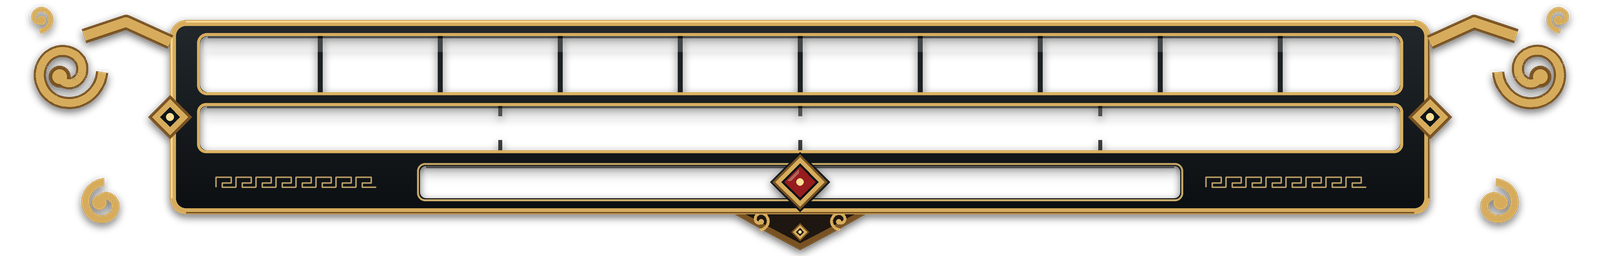
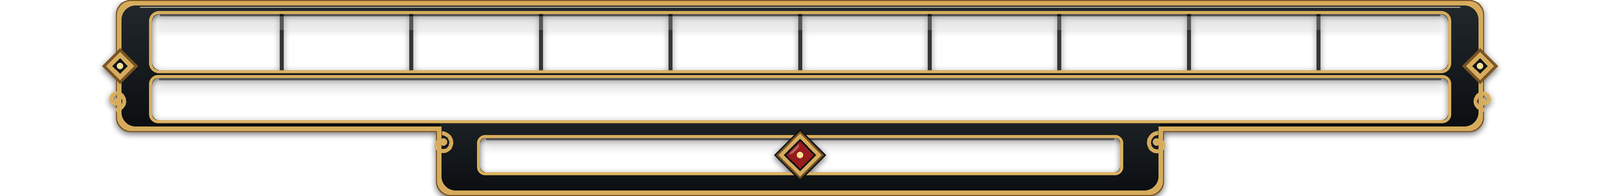
Brighten the vitals fills and fit the stack into less of a phone screen
The user's phone-emulator screenshot showed empty-looking bars and a HUD
taking about half the screen. The fills were authored at size 0 (health,
qi) and a dimmed tan (guard), so the edit view and the first frame showed
dark tracks under "100 / 100"; the guard's idle dim made it a dull strip.
They're now authored full and bright: crimson health, azure qi, a lit
pale-gold guard (GuardBar IDLE_DIM 0.45 -> 0.12).

Size: the emulator reports a mouse, so it gets the PC layout, whose stack
could take 45% of the screen height. On short screens the stack now takes
at most 30% (Layout SMALL_HEIGHT_SHARE). The plate is redrawn as a notched
shape (1600x196, was 1600x256): a full-width body for health and qi, a tab
under the middle for the guard, ornament trimmed to the rim so the bars
keep their thickness. It sits right on the hotbar, and the PC cooldown
chips tuck into the left notch instead of their own row. The seated tiles,
lotus, Force Breakthrough pill and the touch prompt dock moved down with
it. The hotbar is unchanged.

Landscape phone (750x340), plate + crest + hotbar: emulator/PC layout
58% -> 35% of the screen height; touch layout 39% -> 35%.

Untested in play and on a device; previewed in a sandbox's edit view only.

Testbed: re-sync and republish to test the new qi and guard bars

diff --git a/art/ui/draw_vitals.py b/art/ui/draw_vitals.py
@@ -1,44 +1,49 @@
 """Draws the vitals mount (health, qi, guard) and the seated cultivation mount.
 
-vitals_mount.png  1600x256, Stretch at its native 6.25:1 (Hud.Stack.Vitals.Mount).
-                  Three windows the fills show through, top to bottom: health
-                  (thick, ten segments), qi (combat qi, the bright azure bar) and
-                  guard (a shorter posture trough under a lacquer seal in the
-                  middle; the fill drains toward the seal).
-seat_mount.png    1600x256, Stretch at 6.25:1 (Hud.Stack.SeatBars.Mount), shown in
-                  the vitals' place while seated. A realm title band on top, the
-                  cultivation window with a breakthrough lozenge at its right end
-                  and a short overflow chamber past it (cultivation beyond the
-                  breakthrough mark), and the dantian (raw qi) window under it.
-Both are drawn over their fills, so each window is cut clear and glazed.
-The window boxes (VITALS2, SEAT) are what the Studio layout copies, as scale.
-Run: uv run --with pillow --with numpy python art/ui/draw_vitals.py
+Both are one notched plate (1600x196, Stretch at its native 8.16:1): a full-width
+upper body and a narrower tab under its middle, so the PC cooldown chips tuck into
+the left notch instead of taking a row of their own (user, 2026-10-22). Ornament is
+trimmed to a gilt rim, end lozenges and small curls so the bars get the height.
+vitals_mount.png  Hud.Stack.Vitals.Mount: health (thick, ten segments) and combat
+                  qi in the body, the guard trough in the tab under a lacquer seal
+                  (the fill drains toward the seal).
+seat_mount.png    Hud.Stack.SeatBars.Mount, in the vitals' place while seated: a realm
+                  title band, the cultivation window with a breakthrough lozenge and a
+                  short overflow chamber past it, and the dantian (raw qi) in the tab.
+Both are drawn over their fills, so each window is cut clear and glazed. The window
+boxes (VITALS2, SEAT, NOTCH_LEFT) are what the Studio layout copies, as scale.
+Run: uv run --with pillow --with numpy python art/ui/draw_vitals.py [preview]
 """
 import math
 
-from PIL import Image, ImageDraw
+from PIL import Image, ImageDraw, ImageFilter
 
 from draw_ui import (
     GOLD, GOLD_HI, GOLD_LO, INK, SS, canvas, finish, gradient_rect, bevel_border,
     lozenge, meander_band, shadow_under, spiral,
 )
 
-W, H = 1600, 256
+W, H = 1600, 196
+# The plate is notched (user, 2026-10-22): a full-width upper body holds health and
+# qi; a narrower tab under its middle holds the bottom row (guard; the dantian when
+# seated). The PC cooldown chips (Stack.Cooldowns) tuck into the left notch beside
+# the tab, so they no longer take their own row above the hotbar.
+UPPER = (120, 4, 1480, 128)
+TAB = (440, 96, 1160, 192)
+NOTCH_LEFT = (120, 128, 440, 196)  # where the chips sit
 VITALS2 = {
-    "plate": (170, 20, 1430, 214),
-    "health": (200, 36, 1400, 92),
-    "qi": (200, 106, 1400, 150),
-    "guard": (420, 166, 1180, 198),
-    "seal": (800, 182, 30),
+    "health": (152, 14, 1448, 70),
+    "qi": (152, 78, 1448, 120),
+    "guard": (480, 138, 1120, 172),
+    "seal": (800, 155, 26),
     "segments": 10,
 }
 SEAT = {
-    "plate": (170, 20, 1430, 214),
-    "title": (560, 22, 1040, 62),
-    "cultivation": (200, 76, 1236, 132),
-    "mark": (1268, 104, 26),
-    "overflow": (1300, 86, 1400, 122),
-    "dantian": (200, 148, 1400, 184),
+    "title": (600, 10, 1000, 40),
+    "cultivation": (152, 48, 1300, 120),
+    "mark": (1328, 84, 22),
+    "overflow": (1354, 64, 1448, 104),
+    "dantian": (480, 138, 1120, 172),
 }
 WINDOW_RIM = (205, 170, 95, 220)
 
@@ -47,36 +52,36 @@ def s(v):
     return v * SS
 
 
-def plate_and_horns(img, plate):
+def plate_and_horns(img, plate=None):
+    """The notched lacquer plate: the upper body and the tab under it, one gilt
+    outline, small cloud curls at the outer ends and at the two steps."""
+    body = Image.new("RGBA", img.size, (0, 0, 0, 0))
+    for box in (UPPER, TAB):
+        gradient_rect(body, [s(v) for v in box], (34, 40, 44), (12, 15, 18), radius=s(14))
+    # one silhouette, then the gilt rim traced around it
+    alpha = body.getchannel("A")
+    edge = alpha.filter(ImageFilter.MaxFilter(s(6) + 1))
+    rim = Image.new("RGBA", img.size, GOLD)
+    rim.putalpha(edge)
+    lo = Image.new("RGBA", img.size, GOLD_LO)
+    lo.putalpha(alpha.filter(ImageFilter.MaxFilter(s(8) + 1)))
+    img.alpha_composite(lo)
+    img.alpha_composite(rim)
+    inner = alpha.filter(ImageFilter.MinFilter(s(3) + 1))
+    body.putalpha(inner)
+    img.alpha_composite(body)
     d = ImageDraw.Draw(img)
-    cx = W * SS / 2
-    # ruyi pendant under the middle, behind the plate
-    y = plate[3]
-    tip = [(cx - s(80), s(y - 8)), (cx + s(80), s(y - 8)), (cx + s(30), s(y + 20)), (cx, s(y + 36)), (cx - s(30), s(y + 20))]
-    d.polygon(tip, fill=GOLD_LO)
-    inner = [(cx - s(66), s(y - 6)), (cx + s(66), s(y - 6)), (cx + s(23), s(y + 17)), (cx, s(y + 29)), (cx - s(23), s(y + 17))]
-    d.polygon(inner, fill=(30, 22, 16, 255))
+    # a fine hairline just inside the upper body's top edge (top light)
+    d.line([(s(UPPER[0] + 20), s(UPPER[1] + 3)), (s(UPPER[2] - 20), s(UPPER[1] + 3))], fill=(255, 236, 180, 140), width=s(1))
+    # end caps: a lozenge on each outer end, a small curl beside it
+    my = (UPPER[1] + UPPER[3]) / 2
     for side in (-1, 1):
-        spiral(d, cx + side * s(40), s(y + 6), s(10), 1.1, math.pi * 0.5, side, s(3), GOLD)
-    lozenge(d, cx, s(y + 18), s(9), s(2))
-
-    box = [s(v) for v in plate]
-    gradient_rect(img, box, (34, 40, 44), (12, 15, 18), radius=s(16))
-    d = ImageDraw.Draw(img)
-    bevel_border(d, box, s(6), radius=s(16))
-
-    # horns: cloud scrolls rising off each end
-    for side in (-1, 1):
-        ex = cx + side * (W / 2 - plate[0]) * SS
-        top = plate[1]
-        sweep = [(ex, s(top + 22)), (ex + side * s(44), s(top + 2)), (ex + side * s(86), s(top + 16))]
-        d.line(sweep, fill=GOLD_LO, width=s(15), joint="curve")
-        d.line(sweep, fill=GOLD, width=s(10), joint="curve")
-        spiral(d, ex + side * s(104), s(top + 52), s(36), 1.4, math.pi if side > 0 else 0, -side, s(12), GOLD_LO)
-        spiral(d, ex + side * s(104), s(top + 52), s(36), 1.4, math.pi if side > 0 else 0, -side, s(8), GOLD)
-        spiral(d, ex + side * s(66), s(plate[3] - 10), s(22), 1.2, -math.pi * 0.5, side, s(8), GOLD)
-        spiral(d, ex + side * s(130), s(top - 2), s(13), 1.1, math.pi * 0.5, side, s(5), GOLD)
-        lozenge(d, ex, s((plate[1] + plate[3]) / 2), s(22), s(4))
+        ex = s(UPPER[0] if side < 0 else UPPER[2])
+        lozenge(d, ex, s(my), s(18), s(4))
+        spiral(d, ex + side * s(4), s(my + 34), s(10), 1.1, math.pi * 0.5, side, s(4), GOLD)
+        # curl at the step where the tab leaves the body
+        sx = s(TAB[0] if side < 0 else TAB[2])
+        spiral(d, sx - side * s(2), s(UPPER[3] + 16), s(11), 1.1, -math.pi * 0.5, -side, s(4), GOLD)
 
 
 def cut(img, boxes, radius):
@@ -117,53 +122,35 @@ def seal_diamond(d, cx, cy, r):
 def vitals_mount():
     v = VITALS2
     img = canvas(W, H)
-    plate_and_horns(img, v["plate"])
-    d = ImageDraw.Draw(img)
-    gx0, gy0, gx1, gy1 = v["guard"]
-    gm = (gy0 + gy1) / 2
-    # meander bands either side of the guard trough
-    meander_band(d, s(v["plate"][0] + 46), s(gx0 - 26), s(gm), s(10), (205, 170, 95, 190), int(1.6 * SS))
-    meander_band(d, s(gx1 + 26), s(v["plate"][2] - 46), s(gm), s(10), (205, 170, 95, 190), int(1.6 * SS))
+    plate_and_horns(img)
     cut(img, [v["health"], v["qi"], v["guard"]], [8, 7, 6])
     d = ImageDraw.Draw(img)
     hx0, hy0, hx1, hy1 = [s(x) for x in v["health"]]
     seg = (hx1 - hx0) / v["segments"]
     for i in range(1, v["segments"]):
         x = hx0 + seg * i
-        d.line([(x, hy0), (x, hy1)], fill=(10, 14, 16, 230), width=s(5))
-        d.line([(x + s(3), hy0 + s(2)), (x + s(3), hy1 - s(2))], fill=(255, 255, 255, 40), width=s(1))
-    # qi: faint quarter ticks, so spending reads at a glance
-    qx0, qy0, qx1, qy1 = [s(x) for x in v["qi"]]
-    for i in (1, 2, 3):
-        x = qx0 + (qx1 - qx0) * i / 4
-        d.line([(x, qy0), (x, qy0 + s(10))], fill=(10, 14, 16, 200), width=s(4))
-        d.line([(x, qy1 - s(10)), (x, qy1)], fill=(10, 14, 16, 200), width=s(4))
+        d.line([(x, hy0), (x, hy1)], fill=(10, 14, 16, 200), width=s(4))
     glaze(img, v["health"], 8, 3, rim=GOLD, gloss=46)
     glaze(img, v["qi"], 7, 3, rim=GOLD)
-    glaze(img, v["guard"], 6, 2)
+    glaze(img, v["guard"], 6, 3, rim=GOLD)
     d = ImageDraw.Draw(img)
     cx, cy, r = v["seal"]
     seal_diamond(d, s(cx), s(cy), s(r))
-    finish(shadow_under(img, blur=4, offset=3), "vitals_mount.png")
+    finish(shadow_under(img, blur=3, offset=2), "vitals_mount.png")
 
 
 def seat_mount():
     v = SEAT
     img = canvas(W, H)
-    plate_and_horns(img, v["plate"])
-    d = ImageDraw.Draw(img)
-    # title band: a lacquer-red strip with gold rails behind the realm name
+    plate_and_horns(img)
     tx0, ty0, tx1, ty1 = [s(x) for x in v["title"]]
     gradient_rect(img, [tx0, ty0, tx1, ty1], (70, 26, 22), (34, 12, 10), radius=s(8))
     d = ImageDraw.Draw(img)
     d.rounded_rectangle([tx0, ty0, tx1, ty1], radius=s(8), outline=GOLD, width=s(3))
-    for side in (-1, 1):
-        ex = tx0 if side < 0 else tx1
-        lozenge(d, ex, (ty0 + ty1) / 2, s(14), s(3))
-        meander_band(d, *(sorted([ex + side * s(24), ex + side * s(150)])), (ty0 + ty1) / 2, s(10), (205, 170, 95, 190), int(1.6 * SS))
+    for ex in (tx0, tx1):
+        lozenge(d, ex, (ty0 + ty1) / 2, s(12), s(3))
     cut(img, [v["cultivation"], v["overflow"], v["dantian"]], [8, 6, 6])
     d = ImageDraw.Draw(img)
-    # fifths on the cultivation window
     cx0, cy0, cx1, cy1 = [s(x) for x in v["cultivation"]]
     for i in range(1, 5):
         x = cx0 + (cx1 - cx0) * i / 5
@@ -171,41 +158,42 @@ def seat_mount():
         d.line([(x, cy1 - s(10)), (x, cy1)], fill=(10, 14, 16, 200), width=s(4))
     glaze(img, v["cultivation"], 8, 3, rim=GOLD, gloss=46)
     glaze(img, v["overflow"], 6, 2)
-    glaze(img, v["dantian"], 6, 2)
+    glaze(img, v["dantian"], 6, 3, rim=GOLD)
     d = ImageDraw.Draw(img)
-    # the breakthrough mark between the bar and its overflow chamber
     mx, my, mr = v["mark"]
-    d.line([(s(mx), s(v["cultivation"][1] - 6)), (s(mx), s(v["cultivation"][3] + 6))], fill=GOLD_LO, width=s(6))
     lozenge(d, s(mx), s(my), s(mr), s(5))
-    finish(shadow_under(img, blur=4, offset=3), "seat_mount.png")
+    finish(shadow_under(img, blur=3, offset=2), "seat_mount.png")
 
 
 def preview():
-    """Both mounts at real in-game size (520 px wide, the Stack's max) on grey."""
+    """Both mounts at real in-game size on grey: 520 px wide (the Stack's PC max)
+    and 320 px (a landscape phone), with full fills and two chip dots in the notch."""
     import os
     here = os.path.dirname(os.path.abspath(__file__))
     out = os.environ.get("PREVIEW", os.path.join(here, "preview_vitals.png"))
-    bg = Image.new("RGBA", (1100, 260), (110, 110, 110, 255))
+    bg = Image.new("RGBA", (900, 200), (110, 110, 110, 255))
     y = 10
-    for name, fills in (("vitals_mount.png", (("health", 0.7, (60, 190, 110)), ("qi", 0.55, (90, 200, 255)), ("guard", 0.6, (245, 220, 150)))),
-                        ("seat_mount.png", (("cultivation", 1.0, (230, 190, 90)), ("overflow", 0.4, (255, 235, 160)), ("dantian", 0.35, (170, 140, 255))))):
+    for name, boxes, fills in (
+        ("vitals_mount.png", VITALS2, (("health", 1.0, (255, 92, 84)), ("qi", 1.0, (120, 220, 255)), ("guard", 1.0, (255, 236, 170)))),
+        ("seat_mount.png", SEAT, (("cultivation", 1.0, (240, 200, 100)), ("overflow", 0.4, (255, 240, 180)), ("dantian", 0.35, (180, 150, 255)))),
+    ):
         im = Image.open(os.path.join(here, name))
-        boxes = VITALS2 if name.startswith("vitals") else SEAT
-        layer = Image.new("RGBA", im.size, (14, 19, 22, 0))
+        layer = Image.new("RGBA", im.size, (0, 0, 0, 0))
         ld = ImageDraw.Draw(layer)
         for key, frac, col in fills:
             x0, y0, x1, y1 = boxes[key]
             ld.rectangle([x0, y0, x1, y1], fill=(14, 19, 22, 255))
-            if key == "guard":
-                c, half = (x0 + x1) / 2, (x1 - x0) / 2 * frac
-                ld.rectangle([c - half, y0, c + half, y1], fill=col + (255,))
-            else:
-                ld.rectangle([x0, y0, x0 + (x1 - x0) * frac, y1], fill=col + (255,))
+            ld.rectangle([x0, y0, x0 + (x1 - x0) * frac, y1], fill=col + (255,))
         layer.alpha_composite(im)
-        for scale, x in ((520 / 1600, 10), (330 / 1600, 560)):
-            small = layer.resize((int(1600 * scale), int(256 * scale)), Image.LANCZOS)
+        nx0, ny0, nx1, ny1 = NOTCH_LEFT
+        for cx in (nx0 + (nx1 - nx0) * 0.38, nx0 + (nx1 - nx0) * 0.62):
+            r = (ny1 - ny0) * 0.4
+            ld = ImageDraw.Draw(layer)
+            ld.ellipse([cx - r, (ny0 + ny1) / 2 - r, cx + r, (ny0 + ny1) / 2 + r], fill=(16, 18, 18, 220), outline=(240, 226, 190, 200), width=3)
+        for scale, x in ((520 / 1600, 10), (320 / 1600, 560)):
+            small = layer.resize((int(W * scale), int(H * scale)), Image.LANCZOS)
             bg.alpha_composite(small, (x, y))
-        y += 120
+        y += 90
     bg.save(out)
     print("preview", out)
 

diff --git a/docs/systems/ui.md b/docs/systems/ui.md
@@ -38,7 +38,19 @@ cursor, settings and the admin panel.
   bottom: health (thick, ten segments), combat qi (the mana techniques spend;
   bright azure, with its number) and the guard posture trough (always shown,
   dim while full and idle, draining toward the lacquer seal in the middle),
-  with the realm crest above and the hotbar below. Cultivation and the dantian
+  with the realm crest above and the hotbar below. Compact pass (user,
+  2026-10-22, from a phone screenshot): the plate is notched (a full-width body
+  for health and qi, a narrower tab under its middle for the guard) and sits
+  right on the hotbar; the PC Dash/Strike cooldown chips (`Stack.Cooldowns`)
+  tuck into the left notch instead of a row of their own. Ornament is trimmed to
+  a gilt rim, end lozenges and small curls so the bars get the height, not the
+  frame. Fills are bright (crimson health, azure qi, lit pale-gold guard) and
+  authored full, so the edit view and the first frame read full. On short
+  screens (`Platform.isSmall`) the stack takes at most 30% of the height
+  (`Layout` SMALL_HEIGHT_SHARE; it was 45%, which on a landscape phone in the
+  device emulator, which gets the PC layout, filled over half the screen).
+  The seated tiles, lotus, Force Breakthrough pill and the touch prompt dock's
+  column sit just above the plate and moved down with it. Cultivation and the dantian
   left the fighting HUD: they show while seated, in the same spot
   (`Stack.SeatBars`). Health and qi have a pale trail that lingers on a drop.
   A cast refused for qi (`QiDenied` changes) flashes the qi bar red and shakes
@@ -153,7 +165,7 @@ cursor, settings and the admin panel.
 - `SeatBars.luau`: the seated cultivation, overflow and dantian bars.
 - `Layout.luau`: device-specific layout flips; `Platform.luau`.
 - Guard bar (`GuardBar.luau`, `Stack.Vitals.GuardBar`): the posture trough in
-  the vitals mount, always shown. The fill drains toward the mount's centre
+  the vitals plate's tab, always shown. The fill drains toward the mount's centre
   seal, warms toward red below 0.3 and sits at `IDLE_DIM` while full and not
   held. `GuardBar.set(ratio, active)` every frame (GuardController);
   `GuardBar.flash` "parry" (pale-gold flash), "blocked" (jolt and tick),
@@ -248,9 +260,8 @@ both shown in the reward feed).
 
 ## Known gaps
 - The vitals and seat bars were previewed in Studio's edit view at PC size and
-  at a phone-sized stack (380 px wide), not on a device or the emulator, and not
+  at a phone-sized stack (426 px wide), not on a device or the emulator, and not
   in play: the qi flash, trails, guard trough states, seated swap and nudge
   timing are untested.
-- On a small phone the guard trough is about 5 px tall and the qi number about
-  8 px; enlarge the mount on touch if it reads poorly.
+- The cooldown chips are still plain Frames with UICorner/UIStroke, not drawn art.
 - The hotbar shows no qi price; arts just dim when short.
